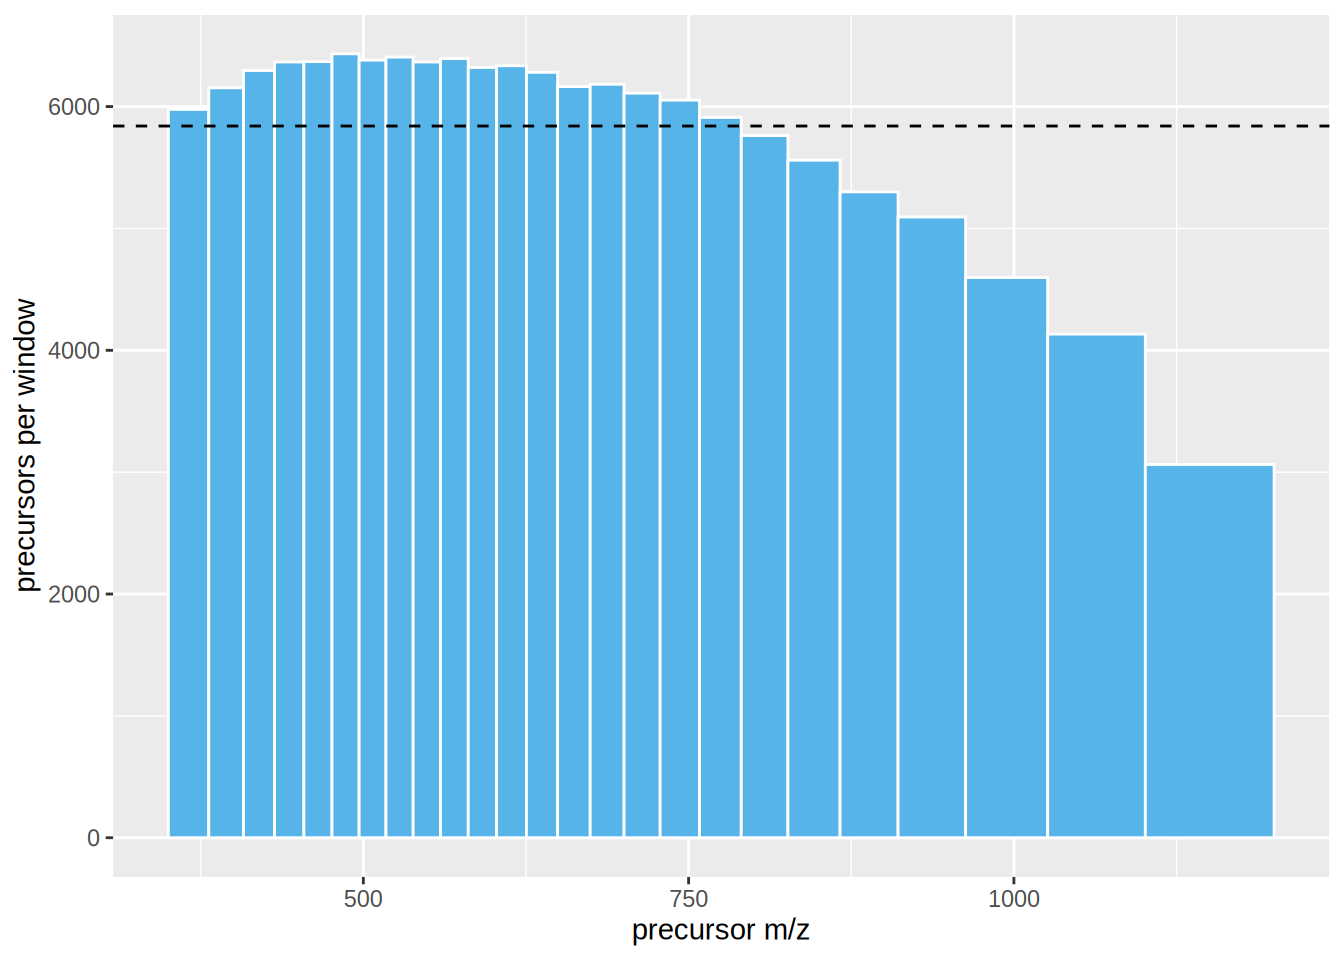
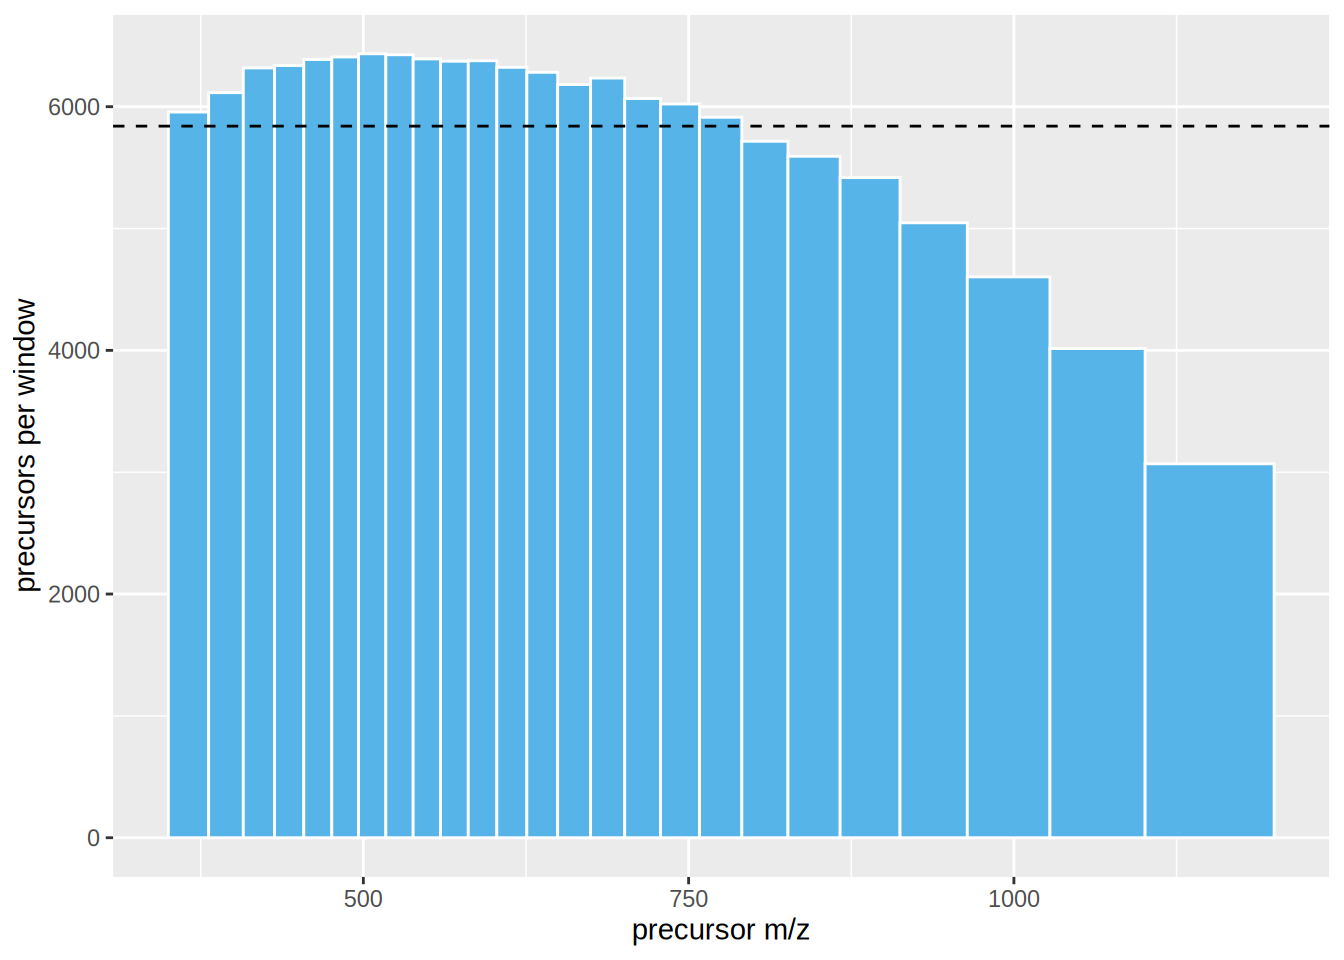
Deploying to gh-pages from @ protViz/prozor@42da9870ab6aef5d5667d6301c6acaed501855b5 🚀

diff --git a/man/Cdsw-class.html b/man/Cdsw-class.html
@@ -534,32 +534,32 @@ ggplot of the DIA cycle, one window per step; overlap in m/z.
 </div>
 <div class="code-copy-outer-scaffold"><div class="sourceCode cell-code" id="cb3"><pre class="sourceCode r code-with-copy"><code class="sourceCode r"><span id="cb3-1"><a href="#cb3-1" aria-hidden="true" tabindex="-1"></a>cdsw<span class="sc">$</span><span class="fu">as_table</span>()</span></code></pre></div><button title="Copy to Clipboard" class="code-copy-button"><i class="bi"></i></button></div>
 <div class="cell-output cell-output-stdout">
-<pre><code>       from      to      mid width counts
-0%   349.63  381.70  365.665 32.07   6104
-4%   380.70  408.39  394.545 27.69   6382
-8%   407.39  432.25  419.820 24.86   6566
-12%  431.25  454.81  443.030 23.56   6610
-16%  453.81  476.41  465.110 22.60   6651
-20%  475.41  497.24  486.325 21.83   6698
-24%  496.24  517.87  507.055 21.63   6691
-28%  516.87  538.78  527.825 21.91   6756
-32%  537.78  559.79  548.785 22.01   6689
-36%  558.79  581.12  569.955 22.33   6720
-40%  580.12  602.82  591.470 22.70   6608
-44%  601.82  625.85  613.835 24.03   6651
-48%  624.85  649.82  637.335 24.97   6572
-52%  648.82  674.85  661.835 26.03   6397
-56%  673.85  700.87  687.360 27.02   6424
-60%  699.87  728.63  714.250 28.76   6312
-64%  727.63  758.87  743.250 31.24   6280
-68%  757.87  790.95  774.410 33.08   6083
-72%  789.95  826.83  808.390 36.88   5923
-76%  825.83  866.90  846.365 41.07   5731
-80%  865.90  911.48  888.690 45.58   5406
-84%  910.48  963.40  936.940 52.92   5192
-88%  962.40 1026.47  994.435 64.07   4691
-92% 1025.47 1101.51 1063.490 76.04   4178
-96% 1100.51 1200.48 1150.495 99.97   3085</code></pre>
+<pre><code>       from      to      mid  width counts
+0%   349.63  381.62  365.625  31.99   6095
+4%   380.62  408.24  394.430  27.62   6354
+8%   407.24  432.23  419.735  24.99   6568
+12%  431.23  454.73  442.980  23.50   6585
+16%  453.73  476.25  464.990  22.52   6657
+20%  475.25  496.79  486.020  21.54   6712
+24%  495.79  517.80  506.795  22.01   6761
+28%  516.80  538.78  527.790  21.98   6769
+32%  537.78  559.80  548.790  22.02   6701
+36%  558.80  581.14  569.970  22.34   6706
+40%  580.14  603.12  591.630  22.98   6673
+44%  602.12  626.17  614.145  24.05   6607
+48%  625.17  649.86  637.515  24.69   6565
+52%  648.86  675.16  662.010  26.30   6433
+56%  674.16  701.39  687.775  27.23   6481
+60%  700.39  728.90  714.645  28.51   6246
+64%  727.90  758.91  743.405  31.01   6232
+68%  757.91  791.40  774.655  33.49   6105
+72%  790.40  826.86  808.630  36.46   5862
+76%  825.86  866.95  846.405  41.09   5750
+80%  865.95  912.97  889.460  47.02   5542
+84%  911.97  964.68  938.325  52.71   5142
+88%  963.68 1028.19  995.935  64.51   4679
+92% 1027.19 1101.35 1064.270  74.16   4070
+96% 1100.35 1200.48 1150.415 100.13   3091</code></pre>
 </div>
 <div class="code-copy-outer-scaffold"><div class="sourceCode cell-code" id="cb5"><pre class="sourceCode r code-with-copy"><code class="sourceCode r"><span id="cb5-1"><a href="#cb5-1" aria-hidden="true" tabindex="-1"></a>cdsw<span class="sc">$</span><span class="fu">optimize_windows</span>()</span></code></pre></div><button title="Copy to Clipboard" class="code-copy-button"><i class="bi"></i></button></div>
 <div class="cell-output cell-output-stdout">
@@ -568,27 +568,27 @@ ggplot of the DIA cycle, one window per step; overlap in m/z.
 2   381.05  407.95  394.50 26.90   6189
 3   407.65  431.85  419.75 24.20   6425
 4   431.65  454.35  443.00 22.70   6447
-5   454.15  476.05  465.10 21.90   6502
-6   475.85  496.85  486.35 21.00   6526
-7   496.45  517.45  506.95 21.00   6442
+5   454.15  475.85  465.00 21.70   6474
+6   475.65  496.35  486.00 20.70   6467
+7   496.15  517.45  506.80 21.30   6578
 8   517.15  538.45  527.80 21.30   6627
 9   538.15  559.45  548.80 21.30   6508
 10  559.15  581.05  570.10 21.90   6628
-11  580.55  602.45  591.50 21.90   6383
-12  602.15  625.45  613.80 23.30   6450
-13  625.15  649.45  637.30 24.30   6463
-14  649.25  674.45  661.85 25.20   6248
-15  674.25  700.45  687.35 26.20   6277
-16  700.25  728.15  714.20 27.90   6163
-17  727.75  758.55  743.15 30.80   6218
-18  758.25  790.55  774.40 32.30   5946
-19  790.25  826.55  808.40 36.30   5881
+11  580.55  603.05  591.80 22.50   6526
+12  602.55  626.05  614.30 23.50   6452
+13  625.55  649.45  637.50 23.90   6335
+14  649.25  674.75  662.00 25.50   6281
+15  674.55  700.95  687.75 26.40   6261
+16  700.75  728.45  714.60 27.70   6139
+17  728.25  758.55  743.40 30.30   6119
+18  758.25  791.15  774.70 32.90   6035
+19  790.75  826.55  808.65 35.80   5804
 20  826.25  866.55  846.40 40.30   5622
-21  866.35  911.05  888.70 44.70   5314
-22  910.85  963.05  936.95 52.20   5147
-23  962.85 1026.05  994.45 63.20   4613
-24 1025.95 1101.05 1063.50 75.10   4139
-25 1100.95 1200.05 1150.50 99.10   3065</code></pre>
+21  866.35  912.55  889.45 46.20   5475
+22  912.35  964.25  938.30 51.90   5083
+23  964.15 1027.75  995.95 63.60   4607
+24 1027.65 1100.85 1064.25 73.20   4015
+25 1100.75 1200.05 1150.40 99.30   3071</code></pre>
 </div>
 <div class="code-copy-outer-scaffold"><div class="sourceCode cell-code" id="cb7"><pre class="sourceCode r code-with-copy"><code class="sourceCode r"><span id="cb7-1"><a href="#cb7-1" aria-hidden="true" tabindex="-1"></a>cdsw<span class="sc">$</span><span class="fu">show_cycle</span>()</span></code></pre></div><button title="Copy to Clipboard" class="code-copy-button"><i class="bi"></i></button></div>
 <div class="cell-output-display">

diff --git a/NEWS.html b/NEWS.html
@@ -484,6 +484,7 @@ ul.task-list li input[type="checkbox"] {
 <li><code>load_contaminants("special2024")</code> works: the bundled <code>fgcz_special_prot_20241112.fasta.gz</code> is a plain gzipped FASTA file again instead of a gzipped tar archive (<a href="https://github.com/protviz/prozor/issues/7">#7</a>).</li>
 <li><code>inst/script/fgcz_create_fasta.R</code> stops early with a clear message for an unknown <code>--contamin</code> value.</li>
 <li>The summary of <code>create_fgcz_fasta_db()</code> no longer contains a link to the FGCZ intranet.</li>
+<li>The FGCZ shell wrappers (<code>inst/script/*.sh</code>) and the notes in <code>inst/creatingDBs/</code> are no longer part of the package; <code>inst/script/fgcz_create_fasta.R</code> stays.</li>
 <li><code>load_contaminants()</code> cites the source of the <code>"universal2024"</code> set; <code>inst/COPYRIGHTS</code> lists its origin.</li>
 <li>Help pages use markdown, link related functions in families, and describe the actual return values (e.g.&nbsp;the elements of <code>compute_fdr()</code>’s result).</li>
 <li>New or runnable examples for <code>create_fgcz_fasta_db()</code>, <code>greedy_to_table()</code>, <code>remove_signal_peptide()</code> and <code>write_fasta()</code>; removed debugging code from examples and vignettes.</li>

diff --git a/man/readjust_windows.html b/man/readjust_windows.html
@@ -472,12 +472,12 @@ Bins with fewer than <code>maxbin</code> precursors count as empty.
 <span id="cb1-7"><a href="#cb1-7" aria-hidden="true" tabindex="-1"></a><span class="fu">head</span>(<span class="fu">data.frame</span>(<span class="fu">readjust_windows</span>(windows, masses, <span class="at">maxbin =</span> <span class="dv">10</span>)))</span></code></pre></div><button title="Copy to Clipboard" class="code-copy-button"><i class="bi"></i></button></div>
 <div class="cell-output cell-output-stdout">
 <pre><code>    from     to    mid width counts
-1 349.63 381.45 365.54 31.82   6055
-2 380.35 408.45 394.40 28.10   6432
+1 349.63 381.95 365.79 32.32   6177
+2 380.45 408.45 394.45 28.00   6431
 3 407.35 432.35 419.85 25.00   6584
 4 431.15 455.05 443.10 23.90   6722
-5 453.65 476.45 465.05 22.80   6746
-6 475.35 497.35 486.35 22.00   6810</code></pre>
+5 453.65 476.35 465.00 22.70   6746
+6 475.15 497.35 486.25 22.20   6960</code></pre>
 </div>
 </div>
 
